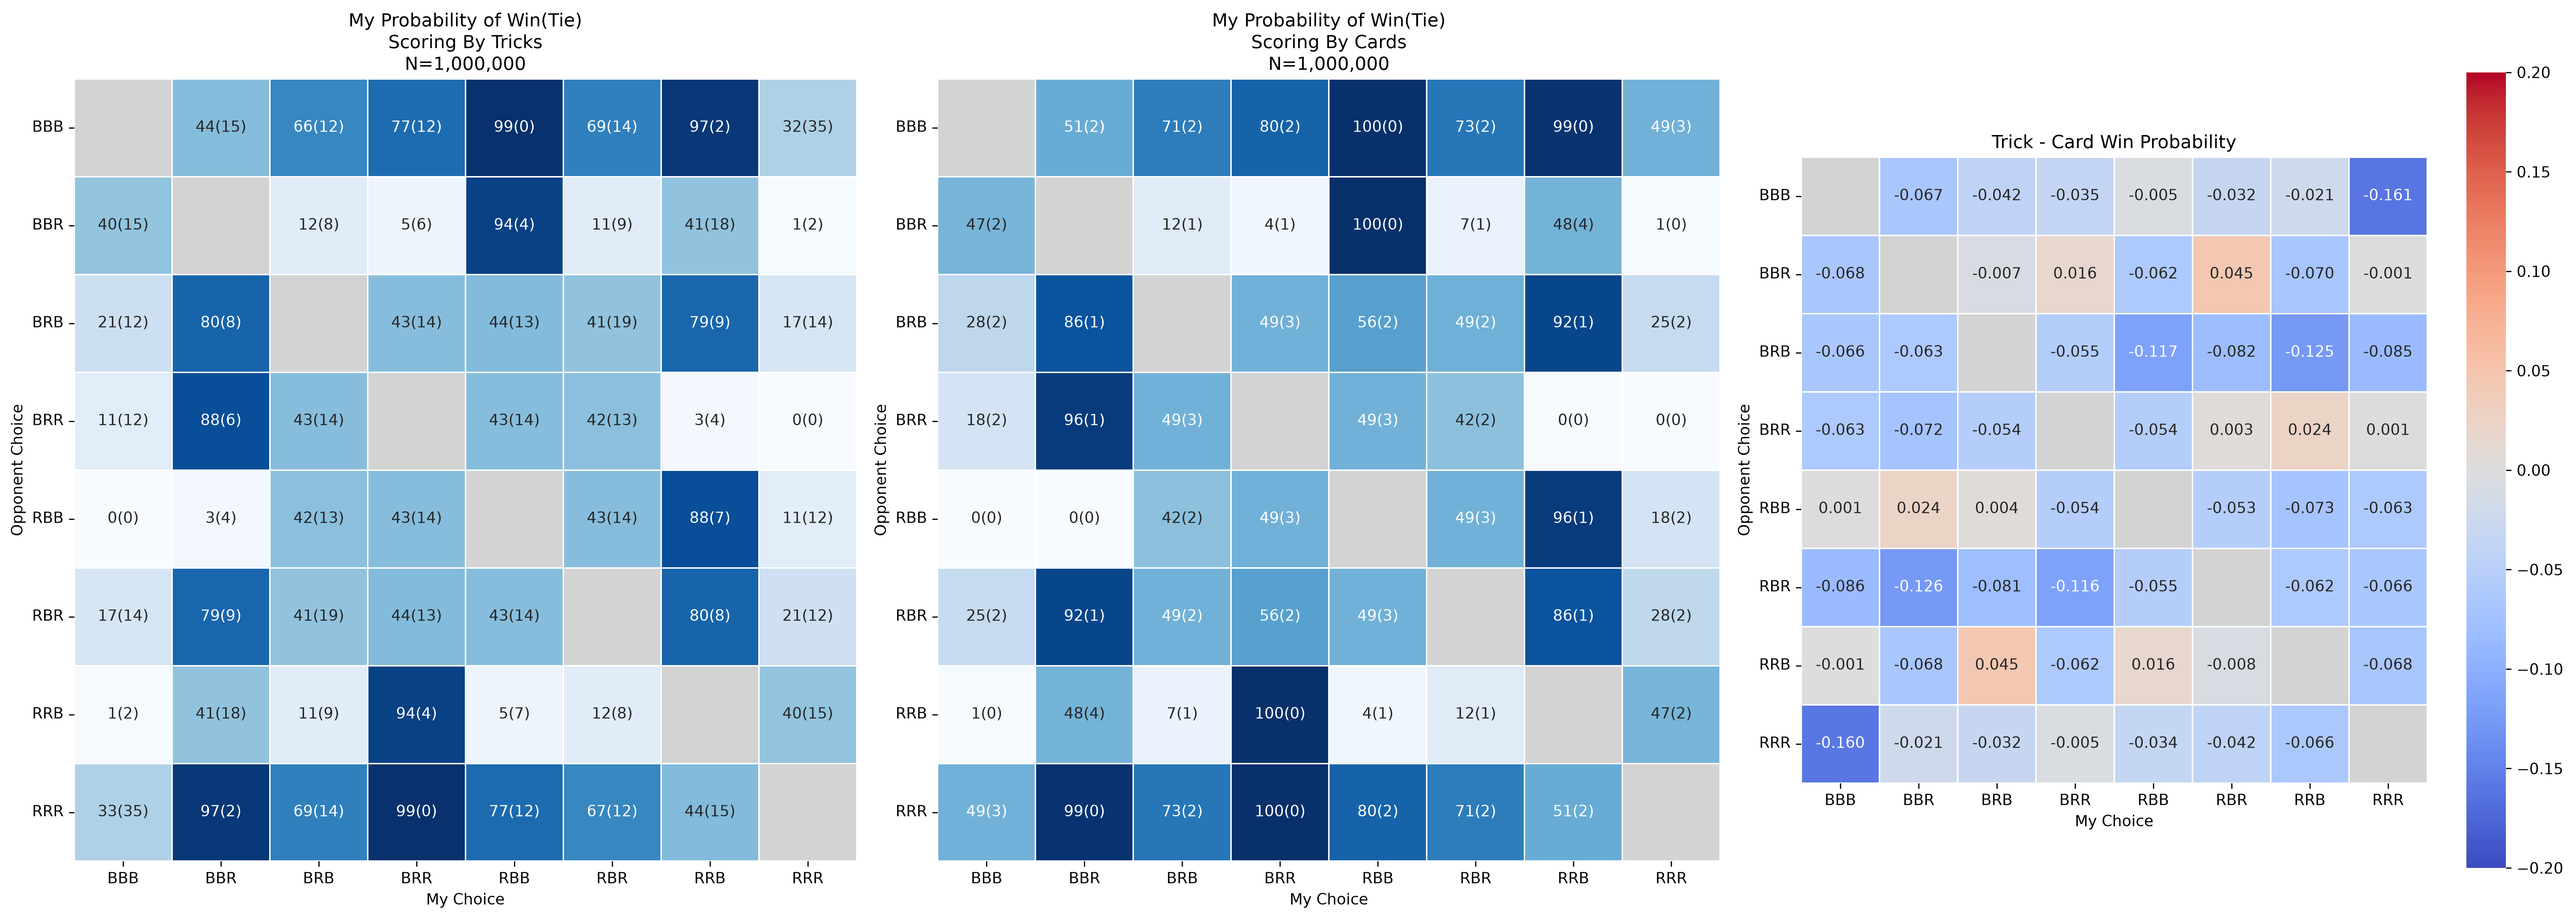
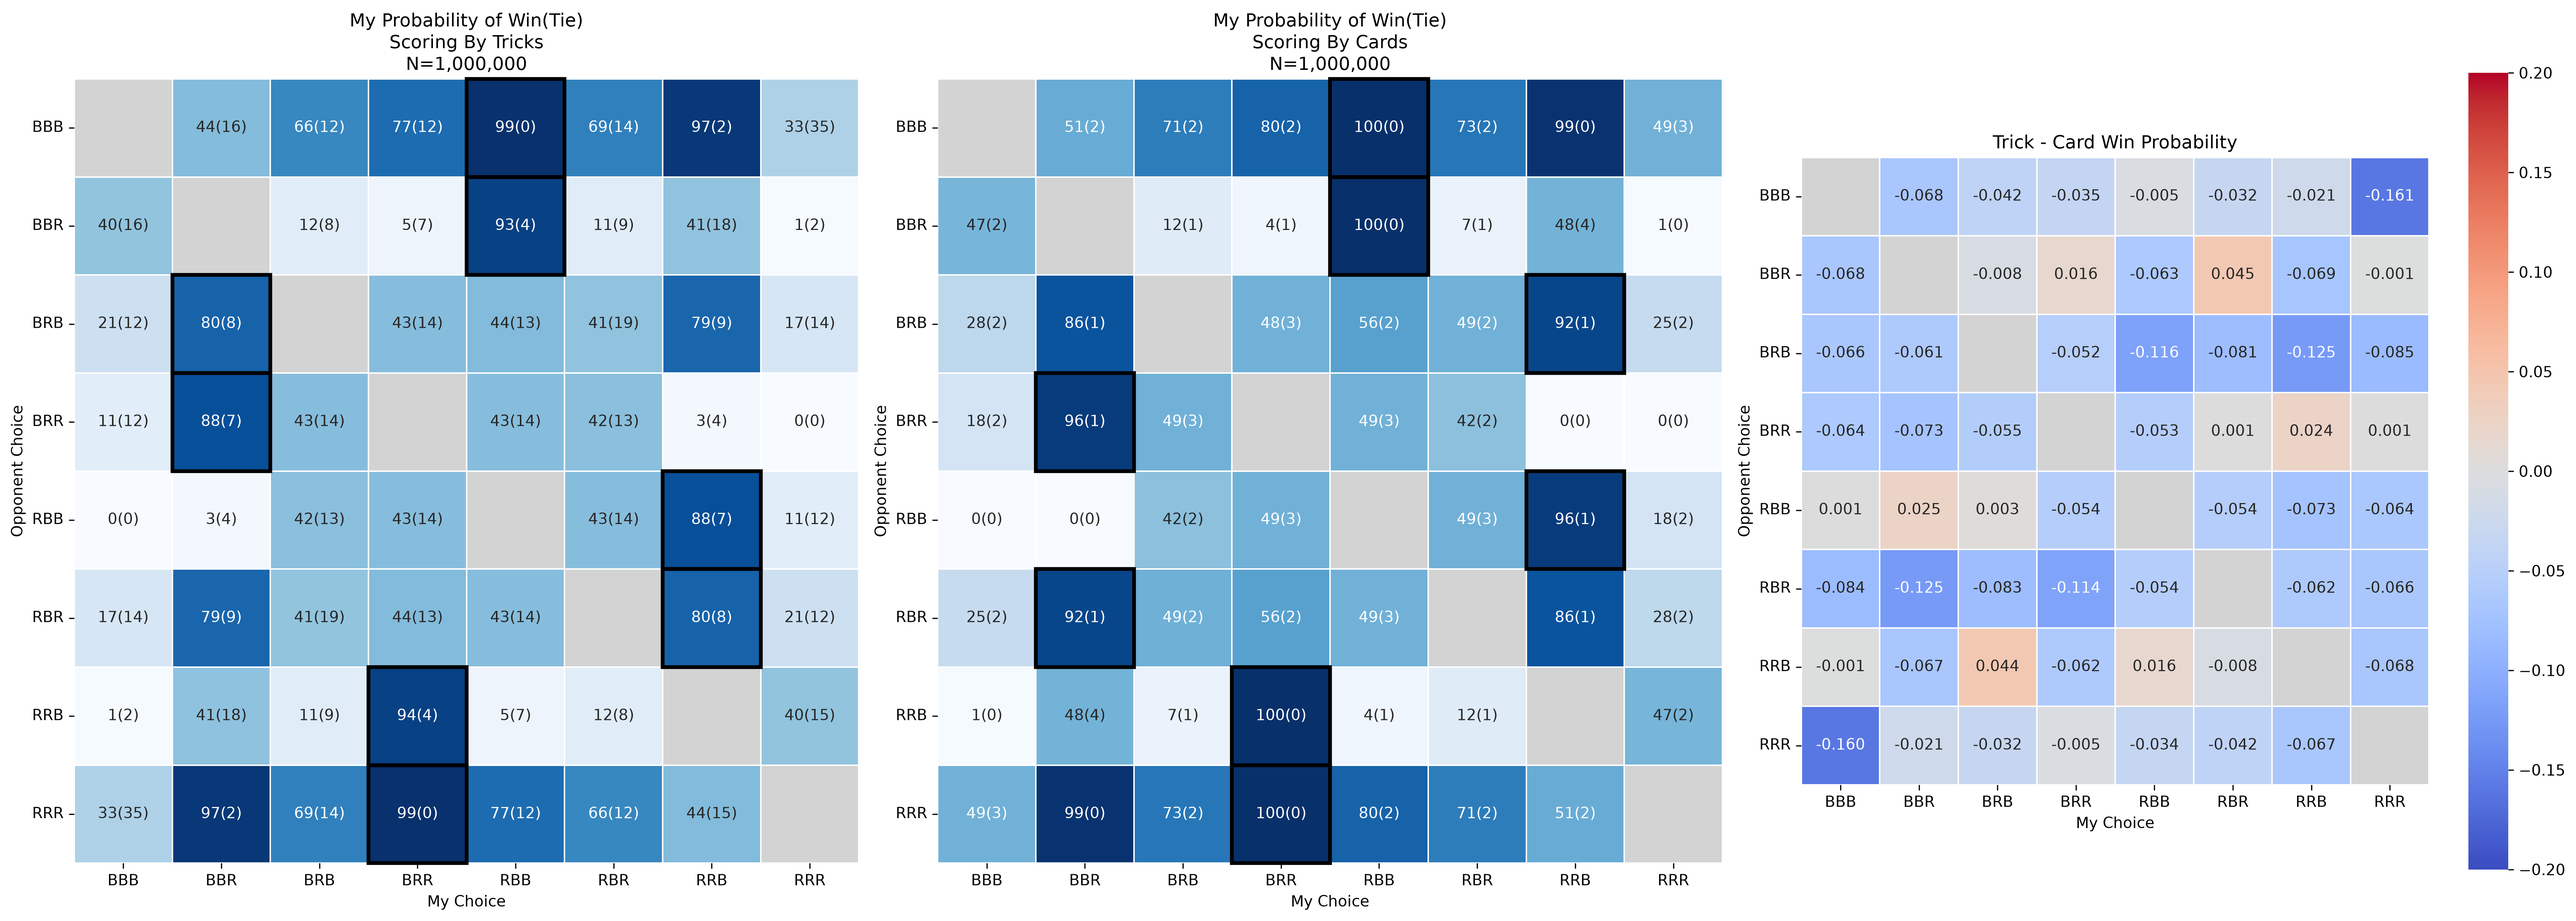
ts

diff --git a/src/figures.py b/src/figures.py
@@ -2,6 +2,7 @@ from pathlib import Path
 
 import seaborn as sb
 import matplotlib.pyplot as plt
+from matplotlib.patches import Rectangle
 
 
 def make_heatmaps(trick_matrix, card_matrix, difference_matrix,
@@ -17,6 +18,12 @@ def make_heatmaps(trick_matrix, card_matrix, difference_matrix,
             vmin=0, vmax=1, cbar=False, square=True,
             linewidths=0.5, linecolor='white', ax=ax,
         )
+        best_responses = matrix.eq(matrix.max(axis=1), axis=0)
+        for row, column in zip(*best_responses.to_numpy().nonzero()):
+            ax.add_patch(Rectangle(
+                (column, row), 1, 1, fill=False,
+                edgecolor='black', linewidth=2.5, clip_on=False,
+            ))
         ax.set_title(f'My Probability of Win(Tie)\nScoring By {mode}\nN={num_simulations:,}')
 
     sb.heatmap(

diff --git a/README.md b/README.md
@@ -62,7 +62,7 @@ python -c "from main import main; main(num_simulations=10000)"
 
 The output is `figures/simulation_results.png`, containing trick-scoring, card-scoring, and difference heatmaps. Running the program again overwrites that image.
 
-In the first two heatmaps, rows are Player 1's choice ("Opponent Choice") and columns are Player 2's choice ("My Choice"). A cell labeled `80(8)` means Player 2 won approximately 80% of games and tied approximately 8%. Blue shading represents win probability. Gray diagonal cells exclude identical choices. The third heatmap shows trick win probability minus card win probability; a negative value means the card-scoring win probability is higher.
+In the first two heatmaps, rows are Player 1's choice ("Opponent Choice") and columns are Player 2's choice ("My Choice"). A cell labeled `80(8)` means Player 2 won approximately 80% of games and tied approximately 8%. Blue shading represents win probability. A black border marks the best response in each row: the choice with the highest unrounded win probability, including all choices tied for best. Gray diagonal cells exclude identical choices. The third heatmap shows trick win probability minus card win probability; a negative value means the card-scoring win probability is higher.
 
 ## Findings
 
@@ -107,4 +107,3 @@ for mode in ('trick', 'cards'):
               'win:', scores[j, i, 0] / decks.shape[1],
               'tie:', scores[i, j, 1] / decks.shape[1])
 ```
-
